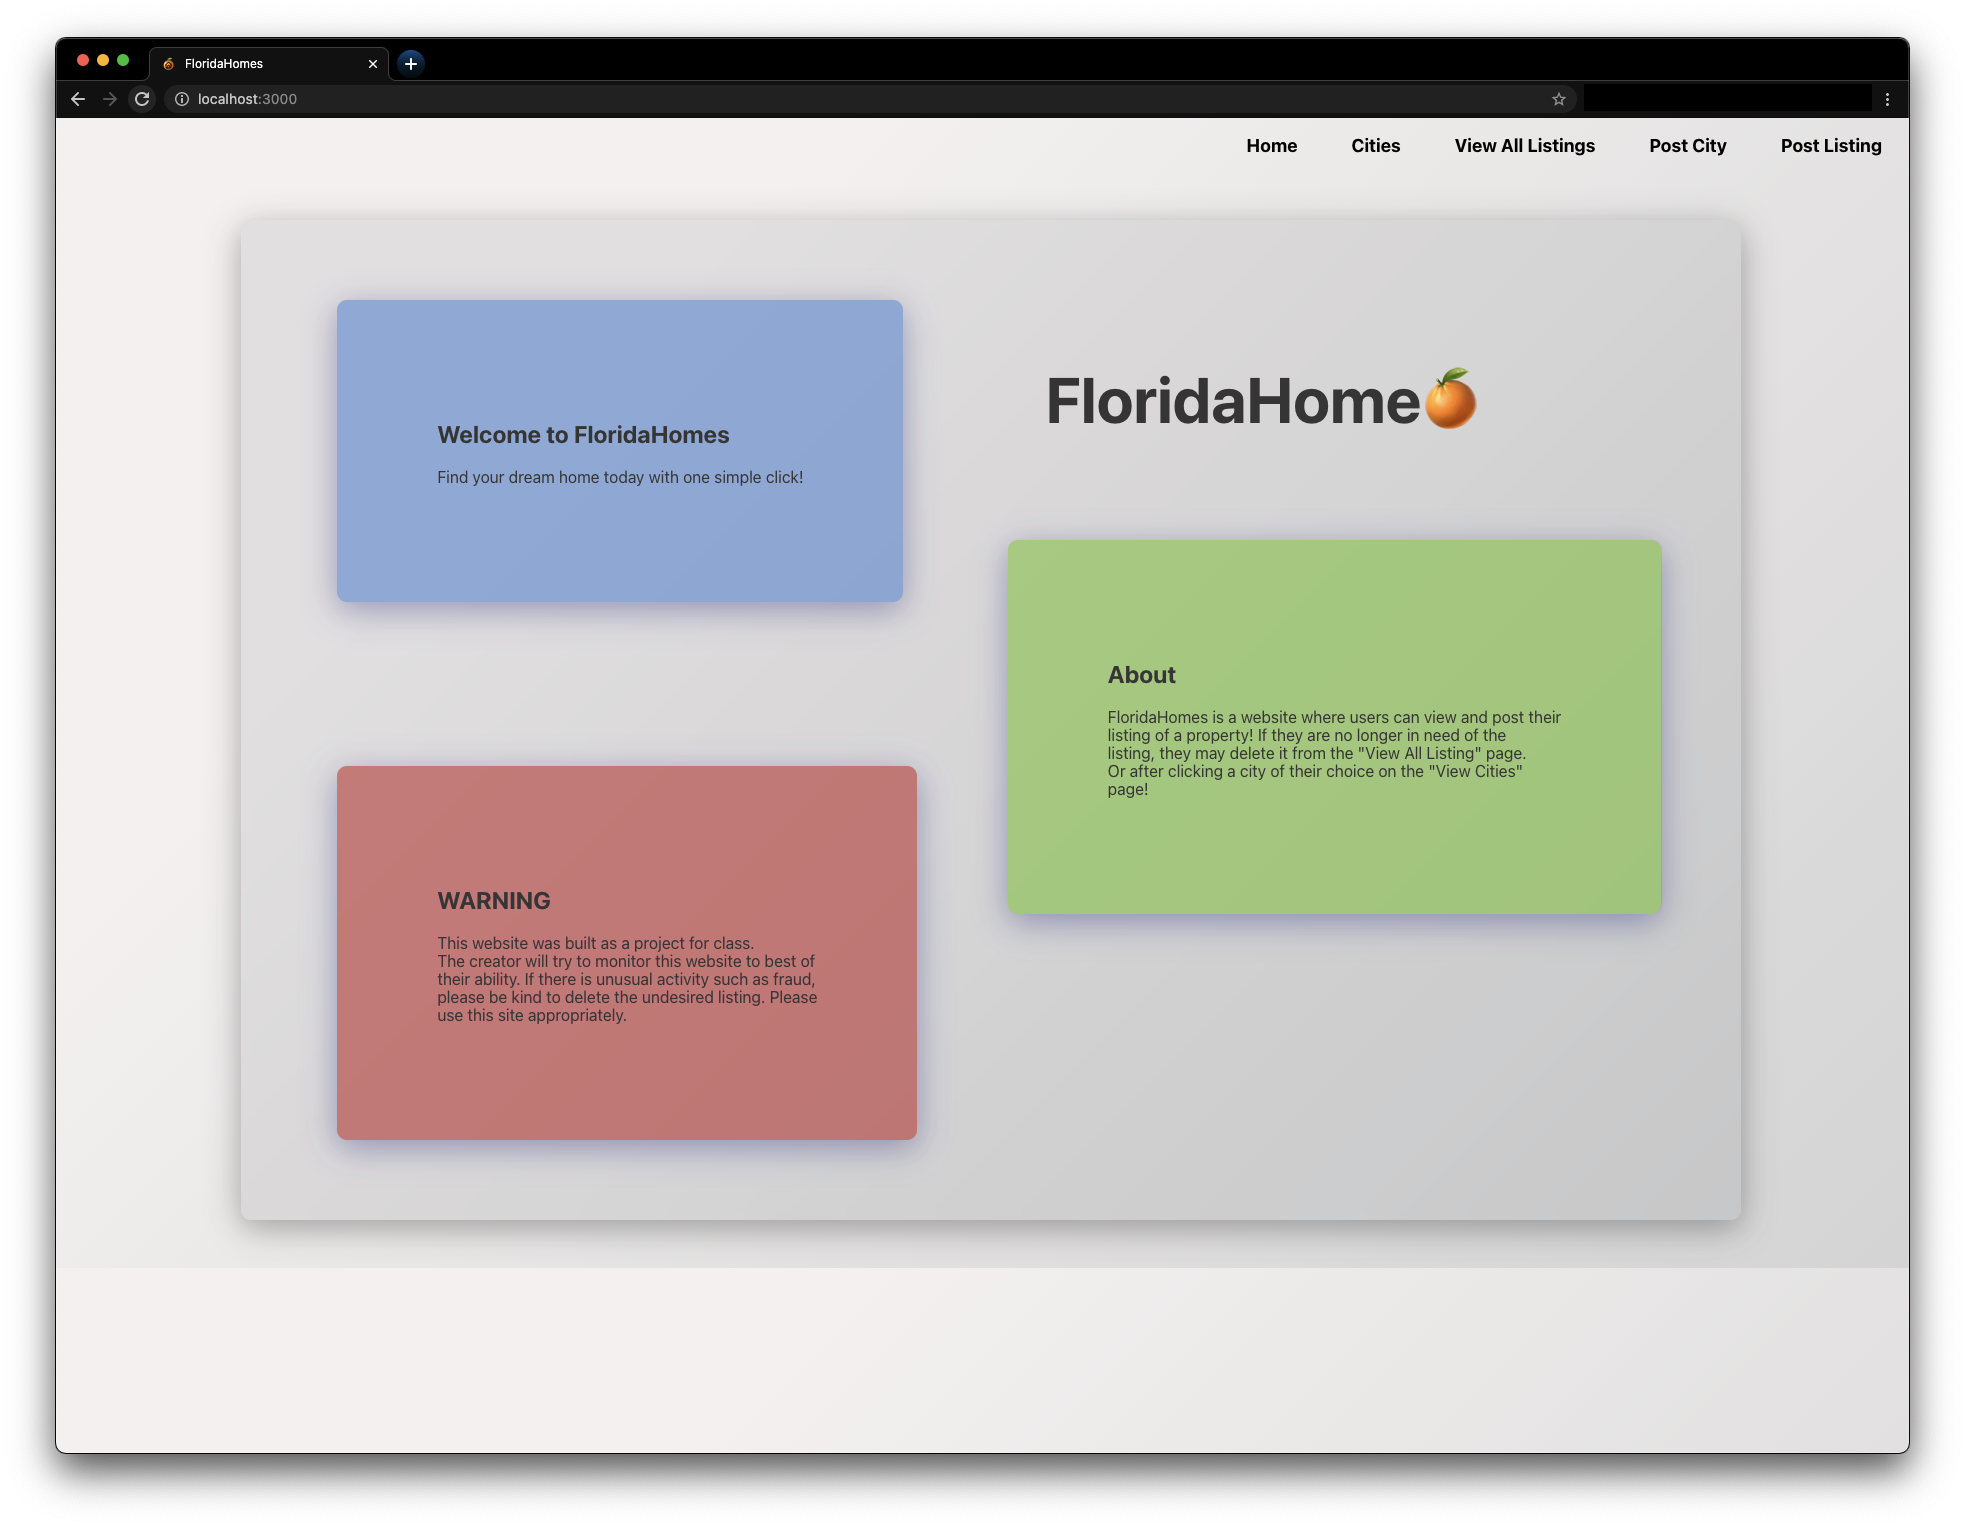
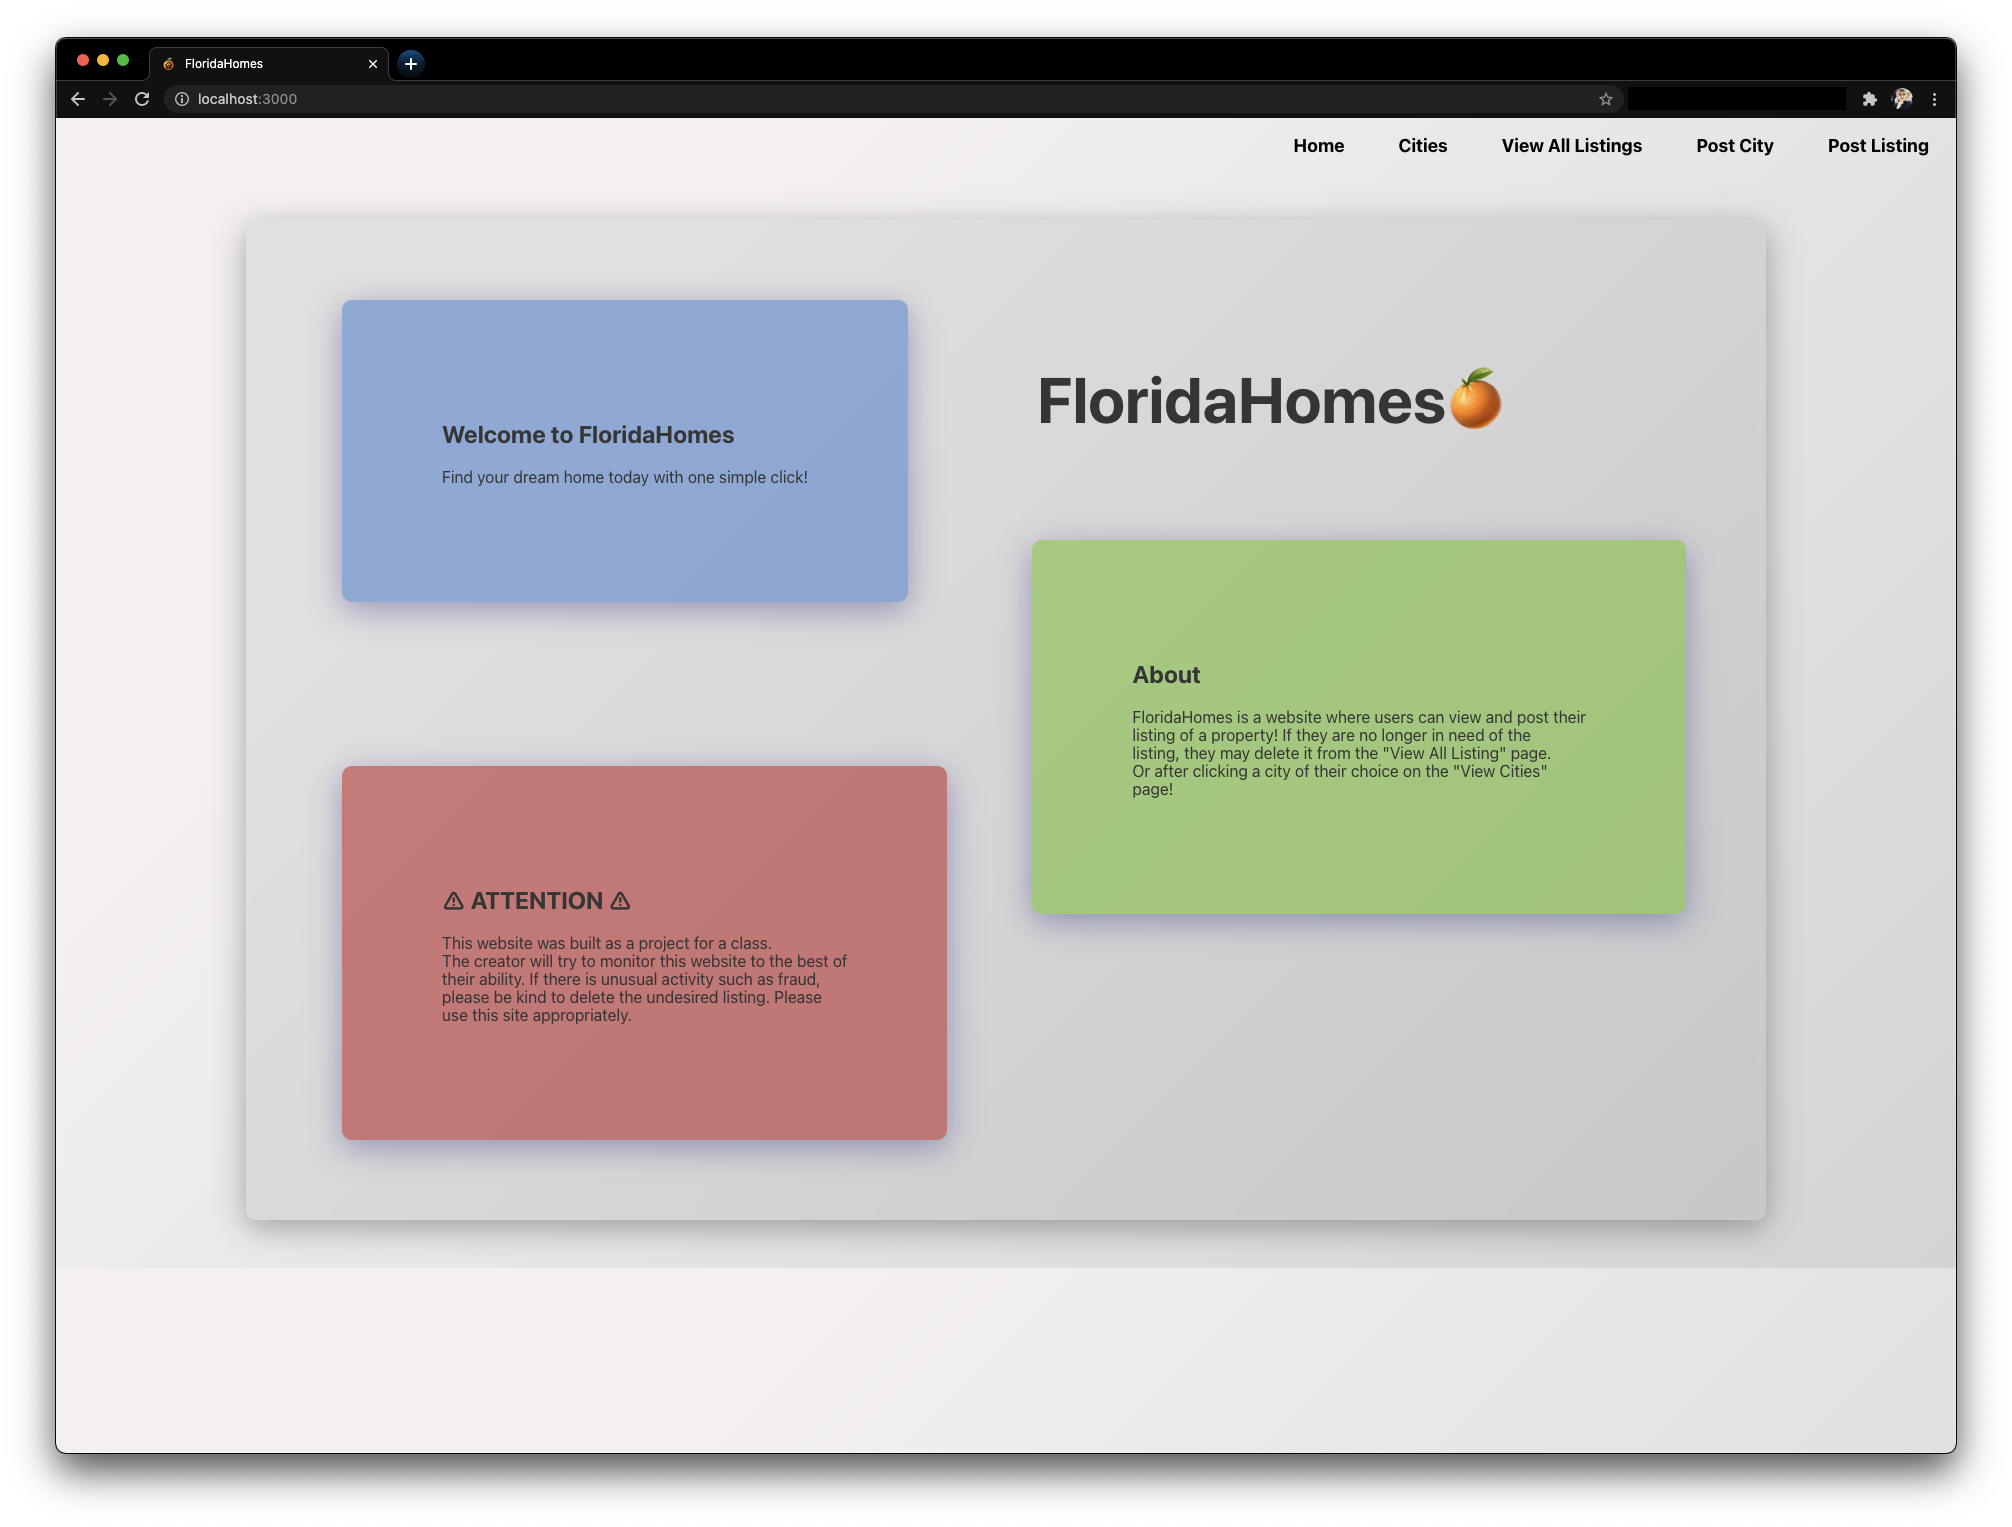
update read me

diff --git a/client/src/pages/Home.js b/client/src/pages/Home.js
@@ -6,7 +6,7 @@ export default class Home extends Component {
     return (
       <div className="app-home">
         <div className="title-home">
-          <h1>FloridaHome🍊</h1>
+          <h1>FloridaHomes🍊</h1>
         </div>
 
         <div className="welcome">
@@ -29,7 +29,7 @@ export default class Home extends Component {
         </div>
 
         <div className="warning">
-          <h2>⚠ATTENTION⚠</h2>
+          <h2>⚠ ATTENTION ⚠</h2>
           <p>
             This website was built as a project for a class. <br />
             The creator will try to monitor this website to the best of <br />
